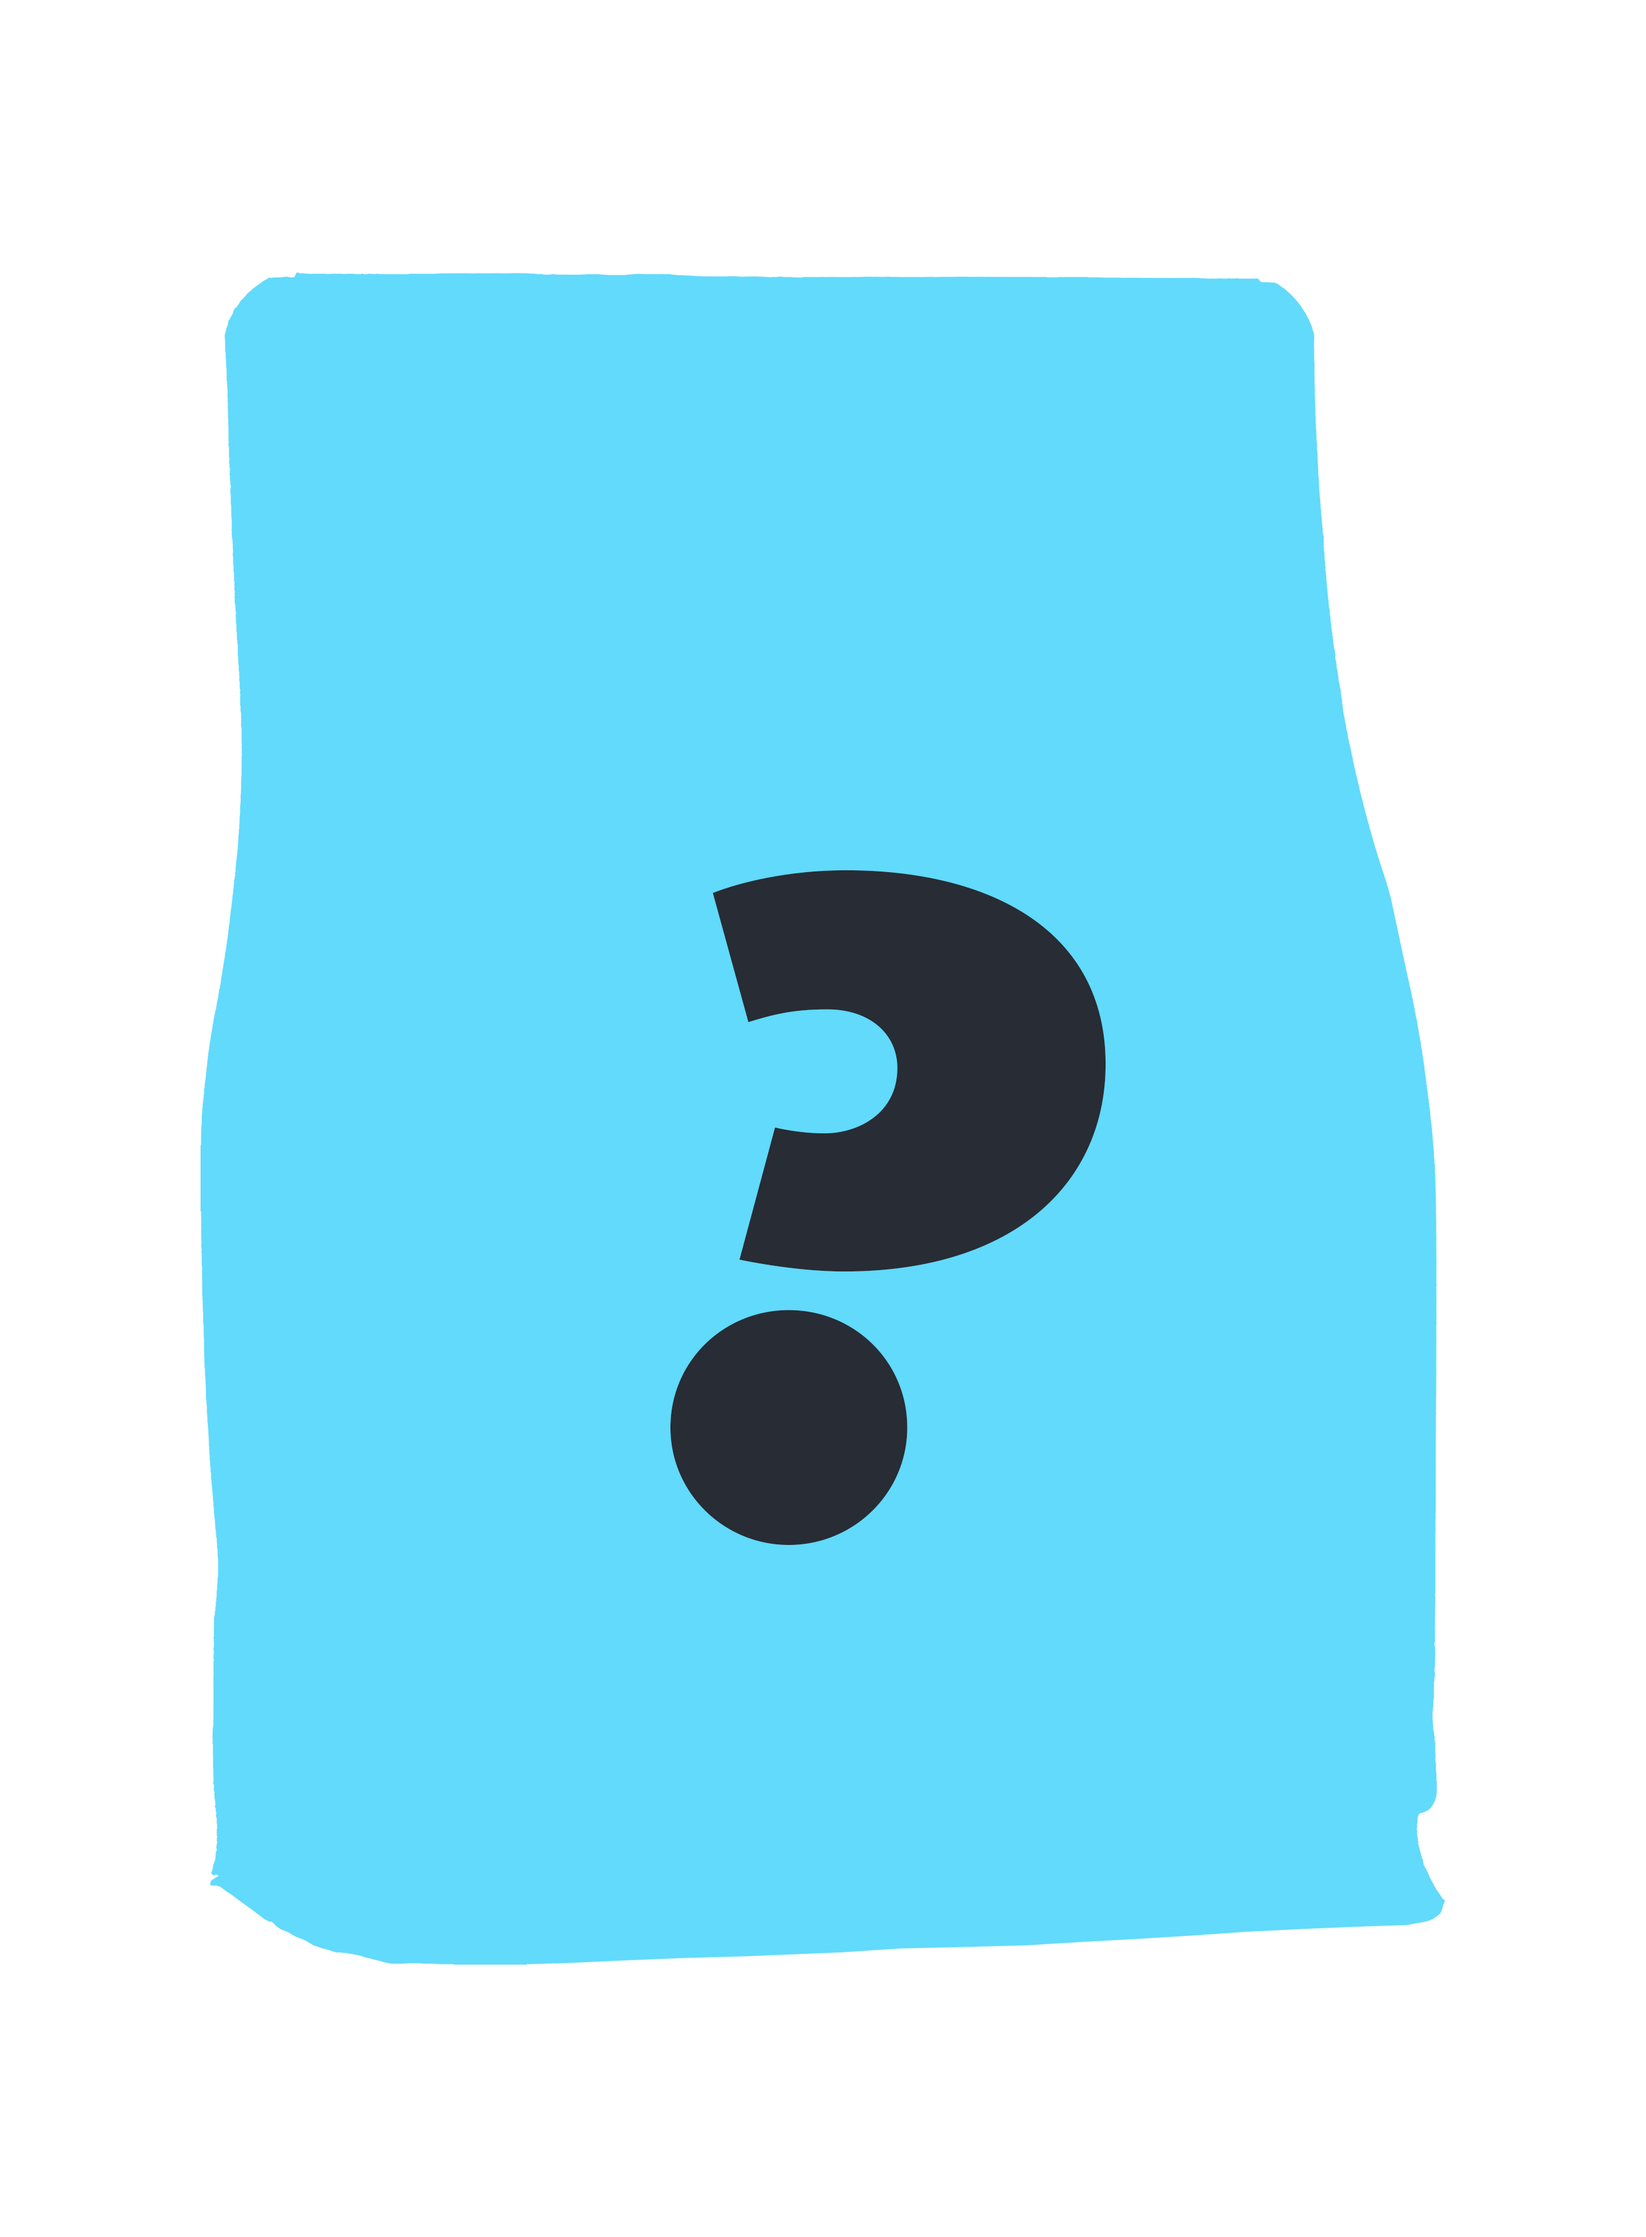
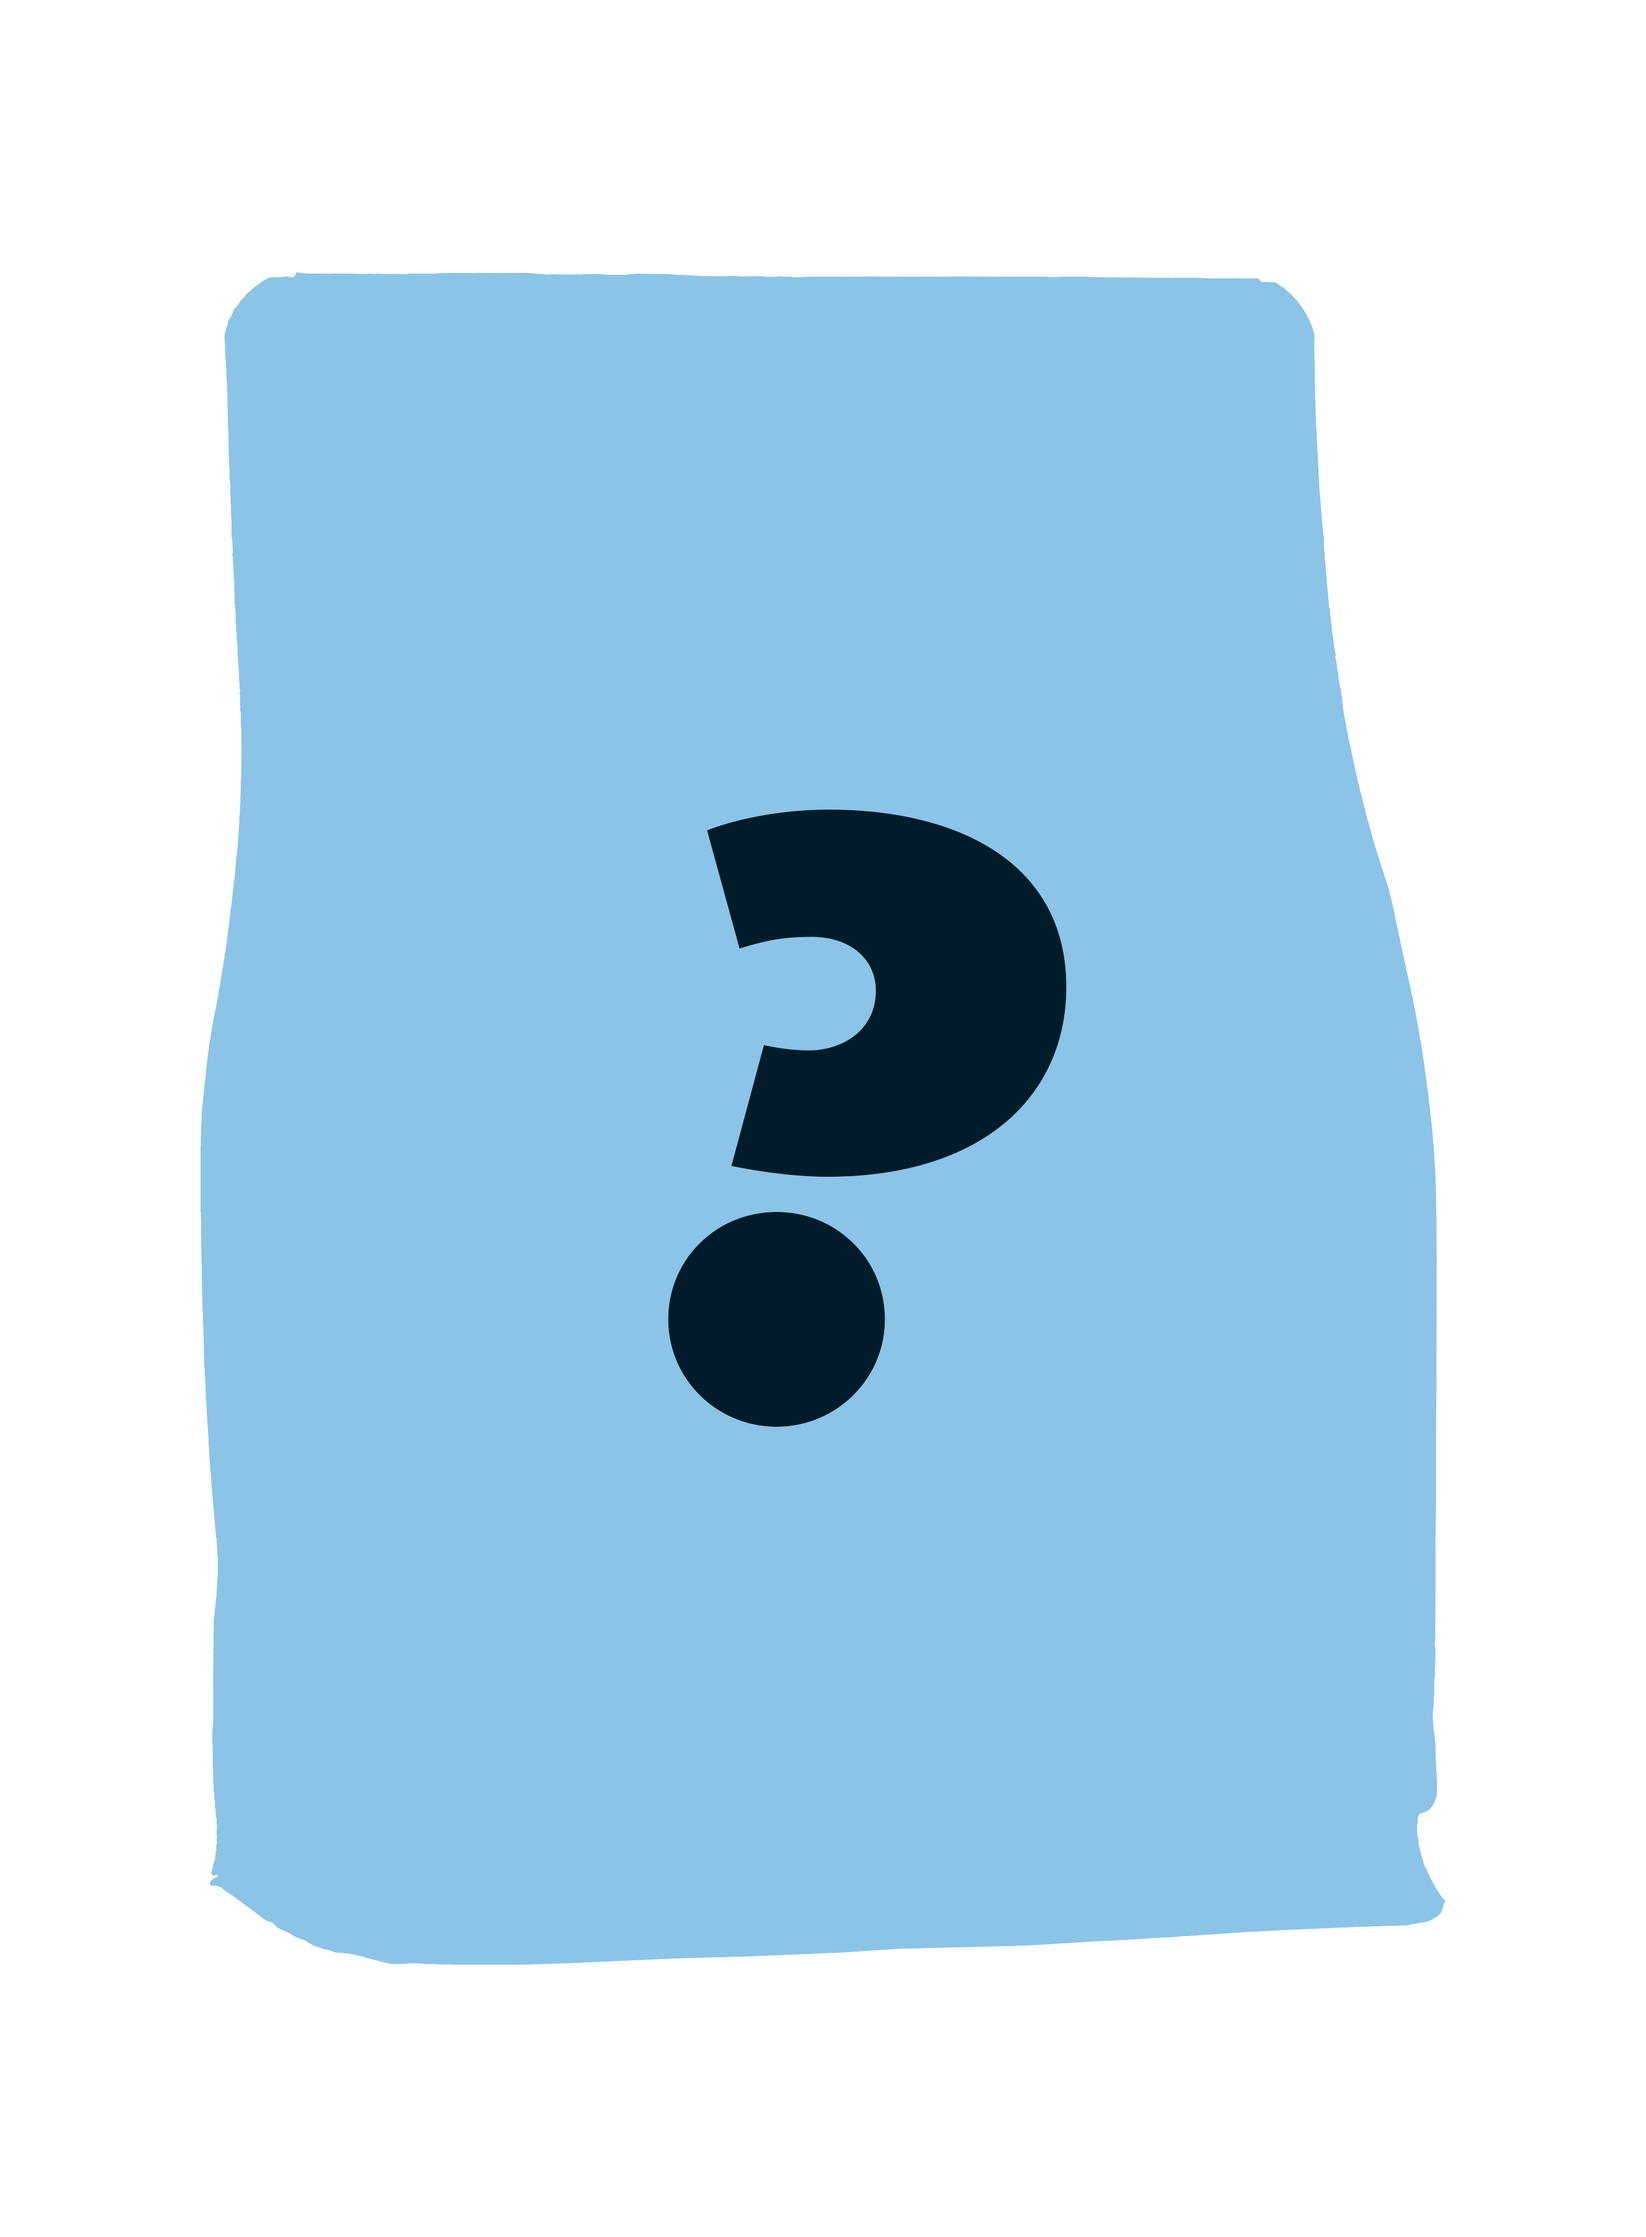
update slide img

diff --git a/index.html b/index.html
@@ -70,11 +70,11 @@
                       
                   <!-- Slide 3 -->
                   <div class="slide">
-                    <img src="images/coffee.png"
-                         data-hover-src="images/phinblend.png"
+                    <img src="images/ar3d.png"
+                         data-hover-src="images/ar3d-f.png"
                          data-popup="popup3"
                          class="popup-trigger hover-image">
-                    <div class="slide-caption">Coffee Packaging Design</div>
+                    <div class="slide-caption">3D & AR</div>
                   </div>
                   <!-- Slide 4 -->
                   <div class="slide">
